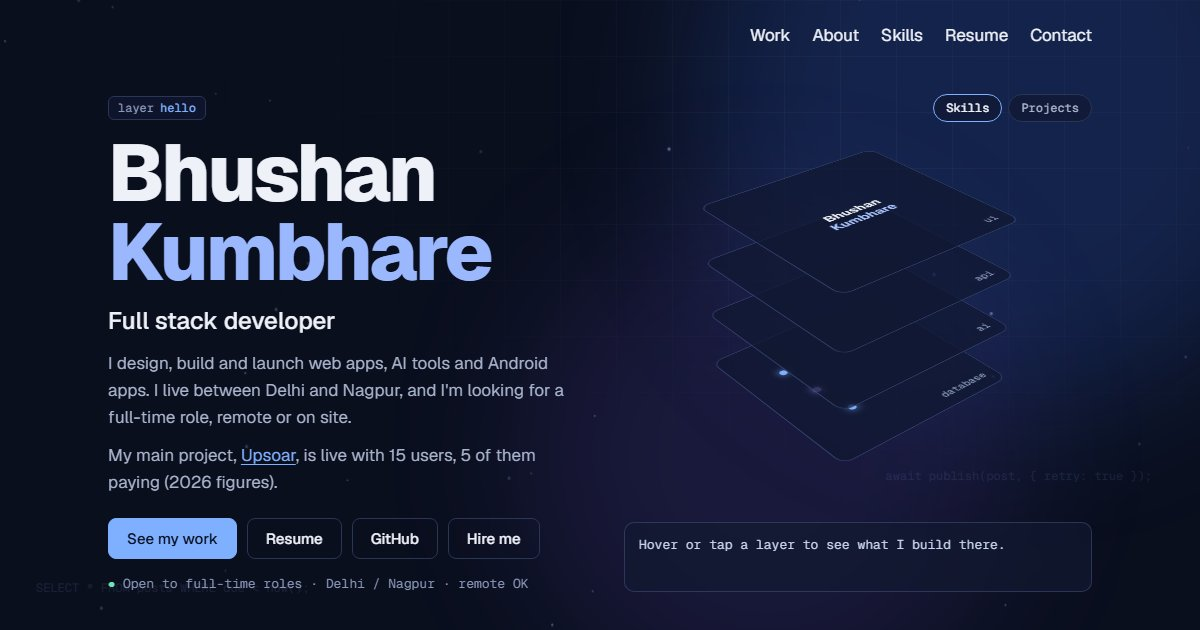
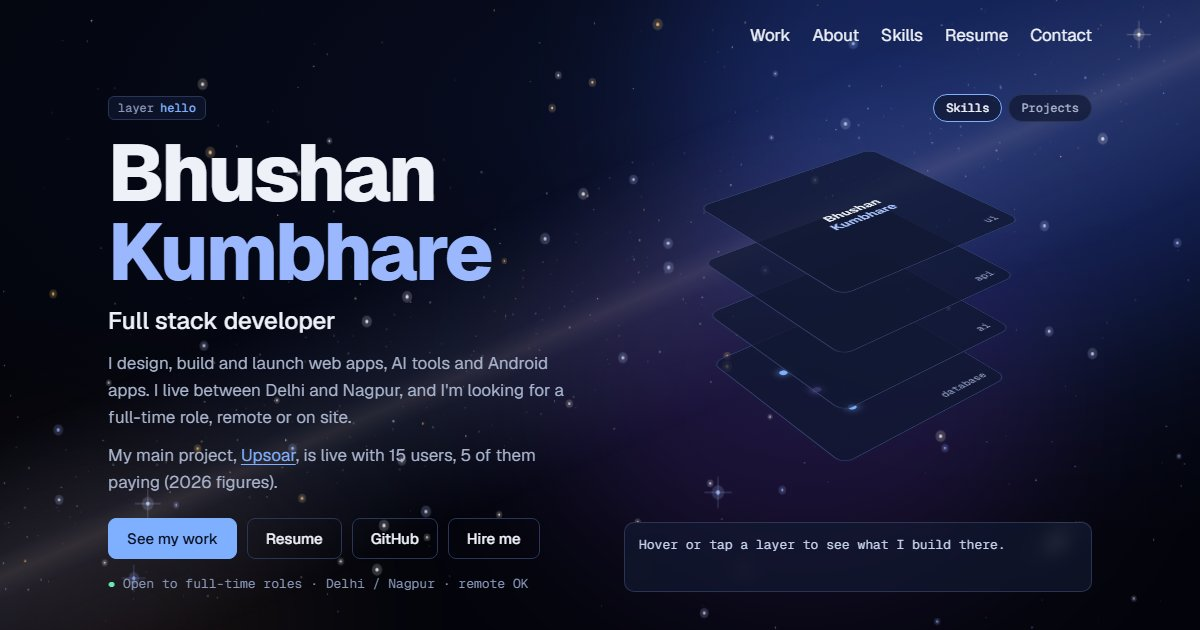
Universe background: real star colours, Milky Way, galaxy, shooting stars
Replaces the grid, particles and code lines with a night sky. Distant stars
cluster along a diagonal Milky Way, near stars twinkle and drift with the
pointer and scroll, a small spiral galaxy sits at the lower right, nebula
clouds drift slowly, and a shooting star crosses every 7 to 15 seconds.
Still for reduced motion.

diff --git a/background.js b/background.js
@@ -1,51 +1,180 @@
-/* Slow particles behind the page, and the 3D stack in the hero. */
+/* A night sky behind the page: stars in their real colours, the Milky Way, a distant galaxy and the odd shooting star.
+   Near stars drift a little with the pointer and the scroll, so the sky has depth. Also starts the 3D stack in the hero. */
 (function background() {
   const still = matchMedia('(prefers-reduced-motion: reduce)').matches;
-  const canvas = document.getElementById('bg-particles');
+  const canvas = document.getElementById('bg-space');
   const c = canvas.getContext('2d');
-  let W = 0, H = 0, dots = [];
+  const sky = document.createElement('canvas');
+  const s = sky.getContext('2d');
+  const PAD = 60;
+  /* Star colours by temperature, hot blue to cool orange, weighted toward white like the real sky. */
+  const COLORS = ['#9bb0ff', '#aabfff', '#cad7ff', '#cad7ff', '#f8f7ff', '#f8f7ff', '#f8f7ff', '#fff4ea', '#fff4ea', '#ffd2a1', '#ffcc6f'];
+  let W = 0, H = 0, near = [], shooting = null, nextShot = 0;
+  const look = { x: 0, y: 0 }, aim = { x: 0, y: 0 };
+  const rand = (a, b) => a + Math.random() * (b - a);
+  const pick = list => list[Math.random() * list.length | 0];
 
-  function size() {
+  /* The Milky Way runs diagonally from the lower left to the upper right. */
+  function bandDistance(x, y) {
+    const x1 = -.1 * W, y1 = .95 * H, x2 = 1.1 * W, y2 = -.05 * H;
+    return Math.abs((y2 - y1) * x - (x2 - x1) * y + x2 * y1 - y2 * x1) / Math.hypot(x2 - x1, y2 - y1);
+  }
+
+  function galaxy(cx, cy, size, tilt) {
+    s.save();
+    s.translate(cx, cy);
+    s.rotate(tilt);
+    s.scale(1, .42);
+    const core = s.createRadialGradient(0, 0, 0, 0, 0, size * .35);
+    core.addColorStop(0, 'rgba(255, 236, 200, .55)');
+    core.addColorStop(1, 'rgba(255, 236, 200, 0)');
+    s.fillStyle = core;
+    s.fillRect(-size, -size, size * 2, size * 2);
+    for (let i = 0; i < 900; i++) {
+      const arm = i % 2, d = Math.pow(Math.random(), .7) * size, a = d / size * 5.5 + arm * Math.PI + rand(-.35, .35);
+      s.globalAlpha = (1 - d / size) * .5;
+      s.fillStyle = d < size * .25 ? '#ffe9c4' : '#b9c8ff';
+      s.fillRect(Math.cos(a) * d, Math.sin(a) * d, 1, 1);
+    }
+    s.restore();
+    s.globalAlpha = 1;
+  }
+
+  /* Everything far away is drawn once onto a slightly larger canvas, so it can shift for parallax without redrawing. */
+  function build() {
     const dpr = Math.min(devicePixelRatio || 1, 2);
     W = innerWidth; H = innerHeight;
     canvas.width = W * dpr; canvas.height = H * dpr;
     c.setTransform(dpr, 0, 0, dpr, 0, 0);
-    const count = W < 760 ? 16 : 34;
-    dots = Array.from({ length: count }, () => ({
-      x: Math.random() * W, y: Math.random() * H,
-      vx: (Math.random() - .5) * .1, vy: (Math.random() - .5) * .1,
-      r: .6 + Math.random() * 1, a: .15 + Math.random() * .35
-    }));
-  }
-  function draw() {
-    c.clearRect(0, 0, W, H);
-    for (const d of dots) {
-      d.x = (d.x + d.vx + W) % W;
-      d.y = (d.y + d.vy + H) % H;
-      c.globalAlpha = d.a;
-      c.fillStyle = '#a9c1ff';
-      c.beginPath();
-      c.arc(d.x, d.y, d.r, 0, 6.283);
-      c.fill();
+    sky.width = (W + PAD * 2) * dpr; sky.height = (H + PAD * 2) * dpr;
+    s.setTransform(dpr, 0, 0, dpr, 0, 0);
+    s.clearRect(0, 0, W + PAD * 2, H + PAD * 2);
+    s.translate(PAD, PAD);
+
+    /* The glow of the Milky Way. */
+    s.save();
+    s.translate(W / 2, H / 2);
+    s.rotate(-Math.atan2(H, W * 1.2));
+    const band = s.createLinearGradient(0, -H * .22, 0, H * .22);
+    band.addColorStop(0, 'rgba(150, 170, 255, 0)');
+    band.addColorStop(.42, 'rgba(170, 185, 255, .1)');
+    band.addColorStop(.5, 'rgba(230, 220, 255, .16)');
+    band.addColorStop(.58, 'rgba(170, 185, 255, .1)');
+    band.addColorStop(1, 'rgba(150, 170, 255, 0)');
+    s.fillStyle = band;
+    s.fillRect(-W, -H * .22, W * 2, H * .44);
+    s.restore();
+
+    /* Distant stars, thickest along the band. */
+    const count = Math.round(W * H / 900);
+    for (let i = 0; i < count; i++) {
+      let x = rand(-PAD, W + PAD), y = rand(-PAD, H + PAD);
+      if (Math.random() < .55) {
+        const t = Math.random(), off = (Math.random() + Math.random() + Math.random() - 1.5) * H * .14;
+        x = -.1 * W + t * 1.2 * W; y = .95 * H - t * H;
+        x += off * .6; y += off;
+      } else if (bandDistance(x, y) < H * .1 && Math.random() < .5) continue;
+      s.globalAlpha = rand(.15, .7);
+      s.fillStyle = pick(COLORS);
+      const r = Math.random() < .9 ? rand(.3, .7) : rand(.7, 1);
+      s.beginPath();
+      s.arc(x, y, r, 0, 6.283);
+      s.fill();
     }
+    s.globalAlpha = 1;
+    galaxy(W * .88, H * .86, Math.min(W, H) * .1, -.5);
+    s.setTransform(1, 0, 0, 1, 0, 0);
+
+    /* Closer, brighter stars that twinkle and drift. A few of the brightest get light spikes. */
+    near = Array.from({ length: Math.round(W * H / 9000) }, () => ({
+      x: rand(0, W), y: rand(0, H), r: rand(.7, 1.6), depth: rand(.4, 1),
+      color: pick(COLORS), phase: rand(0, 6.28), speed: rand(.6, 1.8)
+    }));
+    for (let i = 0; i < Math.max(4, near.length / 40); i++) Object.assign(near[i], { r: rand(1.6, 2.2), depth: 1, spikes: true });
+  }
+
+  function star(x, y, r, color, alpha, spikes) {
+    c.globalAlpha = alpha * .22;
+    c.fillStyle = color;
+    c.beginPath();
+    c.arc(x, y, r * 3.2, 0, 6.283);
+    c.fill();
+    c.globalAlpha = alpha;
+    c.beginPath();
+    c.arc(x, y, r, 0, 6.283);
+    c.fill();
+    if (spikes) {
+      c.globalAlpha = alpha * .45;
+      c.strokeStyle = color;
+      c.lineWidth = .7;
+      c.beginPath();
+      c.moveTo(x - r * 7, y); c.lineTo(x + r * 7, y);
+      c.moveTo(x, y - r * 7); c.lineTo(x, y + r * 7);
+      c.stroke();
+    }
+  }
+
+  function draw(t) {
+    look.x += (aim.x - look.x) * .05;
+    look.y += (aim.y - look.y) * .05;
+    const scroll = scrollY;
+    c.clearRect(0, 0, W, H);
+    c.drawImage(sky, -PAD - look.x * 10, -PAD - look.y * 10 - (scroll * .01) % PAD, W + PAD * 2, H + PAD * 2);
+    for (const n of near) {
+      const x = (n.x - look.x * 30 * n.depth + W) % W;
+      const y = ((n.y - look.y * 20 * n.depth - scroll * .04 * n.depth) % H + H) % H;
+      const twinkle = still ? .85 : .6 + .4 * Math.sin(t / 1000 * n.speed + n.phase);
+      star(x, y, n.r, n.color, twinkle, n.spikes);
+    }
+    if (shooting) {
+      const k = (t - shooting.t) / 900;
+      if (k > 1) shooting = null;
+      else {
+        const hx = shooting.x + shooting.dx * k, hy = shooting.y + shooting.dy * k;
+        const tail = c.createLinearGradient(hx, hy, hx - shooting.dx * .18, hy - shooting.dy * .18);
+        tail.addColorStop(0, 'rgba(255, 244, 220, ' + (1 - k) + ')');
+        tail.addColorStop(1, 'rgba(255, 244, 220, 0)');
+        c.globalAlpha = 1;
+        c.strokeStyle = tail;
+        c.lineWidth = 1.6;
+        c.beginPath();
+        c.moveTo(hx, hy);
+        c.lineTo(hx - shooting.dx * .18, hy - shooting.dy * .18);
+        c.stroke();
+      }
+    } else if (!still && t > nextShot) {
+      shooting = { x: rand(W * .3, W * 1.05), y: rand(-20, H * .3), dx: -rand(500, 800), dy: rand(220, 380), t };
+      nextShot = t + rand(7000, 15000);
+    }
+    c.globalAlpha = 1;
   }
 
   let last = 0;
   function tick(t) {
     requestAnimationFrame(tick);
-    /* 24 frames a second is plenty for dots this slow, and saves battery. */
-    if (t - last < 41 || document.hidden) return;
+    /* 30 frames a second is plenty for twinkling, and saves battery. */
+    if (t - last < 33 || document.hidden) return;
     last = t;
-    draw();
+    draw(t);
   }
 
   let resizeTimer;
   addEventListener('resize', () => {
     clearTimeout(resizeTimer);
-    resizeTimer = setTimeout(() => { size(); if (still) draw(); }, 150);
+    resizeTimer = setTimeout(() => { build(); draw(performance.now()); }, 150);
   });
-  size();
-  if (still) draw(); else requestAnimationFrame(tick);
+  build();
+  nextShot = 2500;
+  draw(0);
+  if (!still) {
+    if (matchMedia('(pointer: fine)').matches) {
+      addEventListener('pointermove', e => { aim.x = e.clientX / W - .5; aim.y = e.clientY / H - .5; }, { passive: true });
+    }
+    addEventListener('scroll', () => { if (still) draw(performance.now()); }, { passive: true });
+    requestAnimationFrame(tick);
+  } else {
+    addEventListener('scroll', () => draw(performance.now()), { passive: true });
+  }
 
   stack(still);
 })();

diff --git a/background.css b/background.css
@@ -1,32 +1,24 @@
 /* Page background and hero visual. Remove this file, background.js and the .bg block in index.html to go back to a plain page. */
 
-.bg { position: fixed; inset: 0; z-index: -1; overflow: hidden; background: #0a0f1e; pointer-events: none; }
-
-.bg-glow { position: absolute; border-radius: 50%; filter: blur(70px); will-change: transform; }
-.bg-glow.blue { width: 52vw; height: 52vw; top: -18vw; right: -10vw; background: rgba(62, 116, 255, .2); }
-.bg-glow.violet { width: 40vw; height: 40vw; top: 34vh; right: 16vw; background: rgba(132, 92, 255, .13); }
-
-.bg-grid {
-  position: absolute; inset: 0;
-  background-image:
-    linear-gradient(rgba(150, 175, 255, .055) 1px, transparent 1px),
-    linear-gradient(90deg, rgba(150, 175, 255, .055) 1px, transparent 1px);
-  background-size: 56px 56px;
-  -webkit-mask-image: radial-gradient(ellipse 75% 80% at 72% 22%, #000, transparent 75%);
-  mask-image: radial-gradient(ellipse 75% 80% at 72% 22%, #000, transparent 75%);
+.bg {
+  position: fixed; inset: 0; z-index: -1; overflow: hidden; pointer-events: none;
+  background: radial-gradient(ellipse 90% 70% at 72% 18%, #0b1330 0%, #060a1a 45%, #03040b 100%);
 }
-#bg-particles { position: absolute; inset: 0; width: 100%; height: 100%; }
 
-.bg-code { position: absolute; margin: 0; font: 12px/1.7 var(--mono); color: #a9bcff; opacity: .1; white-space: pre; }
-.bg-code.one { right: 4vw; top: 74vh; }
-.bg-code.two { left: 3vw; bottom: 5vh; }
+/* Soft nebula clouds. They drift very slowly and blend like light, not paint. */
+.nebula { position: absolute; border-radius: 50%; filter: blur(80px); mix-blend-mode: screen; will-change: transform; }
+.nebula.blue { width: 58vw; height: 44vw; top: -16vw; right: -14vw; background: rgba(56, 98, 255, .24); }
+.nebula.violet { width: 42vw; height: 32vw; top: 32vh; right: 12vw; background: rgba(140, 80, 255, .17); }
+.nebula.warm { width: 34vw; height: 26vw; bottom: -12vw; left: -8vw; background: rgba(255, 170, 90, .07); }
+#bg-space { position: absolute; inset: 0; width: 100%; height: 100%; }
 
 @media (prefers-reduced-motion: no-preference) {
-  .bg-glow.blue { animation: glow-a 26s ease-in-out infinite alternate; }
-  .bg-glow.violet { animation: glow-b 32s ease-in-out infinite alternate; }
+  .nebula.blue { animation: drift-a 40s ease-in-out infinite alternate; }
+  .nebula.violet { animation: drift-b 52s ease-in-out infinite alternate; }
+  .nebula.warm { animation: drift-a 60s ease-in-out infinite alternate-reverse; }
 }
-@keyframes glow-a { to { transform: translate(-7vw, 6vh) scale(1.1); } }
-@keyframes glow-b { to { transform: translate(8vw, -7vh) scale(.92); } }
+@keyframes drift-a { to { transform: translate(-6vw, 5vh) scale(1.08); } }
+@keyframes drift-b { to { transform: translate(7vw, -6vh) scale(.94); } }
 
 /* Hero visual: the stack I build, as 3D layers. Hover a layer to lift it; switch to see projects instead of skills. */
 .hero-visual { position: relative; min-width: 0; --gap: 58px; --plate: 210px; }
@@ -84,9 +76,8 @@
 
 @media (max-width: 760px) {
   .top nav { gap: 4px 14px; font-size: 15px; justify-content: flex-start; }
-  .bg-code { display: none; }
   .hero-visual { --gap: 44px; --plate: 170px; }
   .stack-scene { height: 300px; }
-  .bg-glow.blue { width: 110vw; height: 110vw; top: -60vw; right: -50vw; }
-  .bg-glow.violet { width: 80vw; height: 80vw; top: 60vh; right: -30vw; }
+  .nebula.blue { width: 120vw; height: 100vw; top: -60vw; right: -50vw; }
+  .nebula.violet { width: 90vw; height: 70vw; top: 55vh; right: -35vw; }
 }

diff --git a/index.html b/index.html
@@ -13,23 +13,21 @@
 <meta property="og:image" content="https://shaggyb1.github.io/assets/share.jpg">
 <link rel="canonical" href="https://shaggyb1.github.io/">
 <meta name="twitter:card" content="summary_large_image">
-<meta name="theme-color" content="#0a0f1e">
+<meta name="theme-color" content="#04060f">
 <link rel="icon" href="assets/favicon.svg" type="image/svg+xml">
 <link rel="preconnect" href="https://fonts.googleapis.com">
 <link rel="preconnect" href="https://fonts.gstatic.com" crossorigin>
 <link href="https://fonts.googleapis.com/css2?family=Geist:wght@400..800&family=Geist+Mono:wght@400;500&display=swap" rel="stylesheet">
 <!-- The ?v= on CSS and JS links makes browsers fetch fresh files after an update. Change it (for example to the date) on every update. -->
-<link rel="stylesheet" href="style.css?v=20261113c">
-<link rel="stylesheet" href="background.css?v=20261113c">
+<link rel="stylesheet" href="style.css?v=20261113d">
+<link rel="stylesheet" href="background.css?v=20261113d">
 </head>
 <body>
 <div class="bg" aria-hidden="true">
-  <div class="bg-glow blue"></div>
-  <div class="bg-glow violet"></div>
-  <div class="bg-grid"></div>
-  <canvas id="bg-particles"></canvas>
-  <pre class="bg-code one">await publish(post, { retry: true });</pre>
-  <pre class="bg-code two">SELECT * FROM posts WHERE due &lt; now();</pre>
+  <div class="nebula blue"></div>
+  <div class="nebula violet"></div>
+  <div class="nebula warm"></div>
+  <canvas id="bg-space"></canvas>
 </div>
 <div class="page">
   <header class="top">
@@ -120,9 +118,9 @@
   </footer>
 </div>
 
-<script src="data.js?v=20261113c"></script>
-<script src="demos.js?v=20261113c"></script>
-<script src="script.js?v=20261113c"></script>
-<script src="background.js?v=20261113c"></script>
+<script src="data.js?v=20261113d"></script>
+<script src="demos.js?v=20261113d"></script>
+<script src="script.js?v=20261113d"></script>
+<script src="background.js?v=20261113d"></script>
 </body>
 </html>

diff --git a/style.css b/style.css
@@ -1,6 +1,6 @@
 :root {
   color-scheme: dark;
-  --paper: #0a0f1e;
+  --paper: #04060f;
   --surface: rgba(19, 28, 54, .72);
   --ink: #eef1f8;
   --soft: #a9b4cc;
